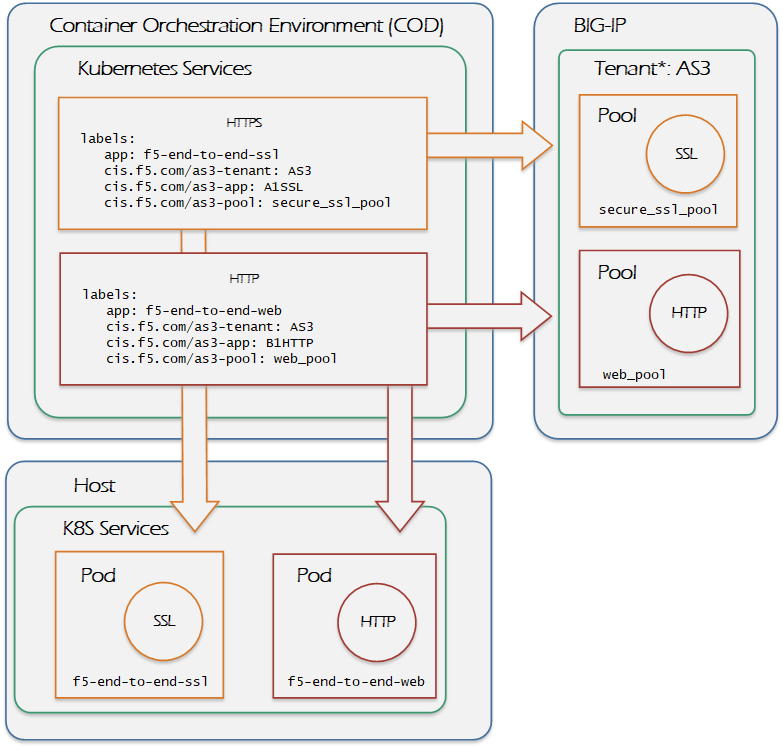
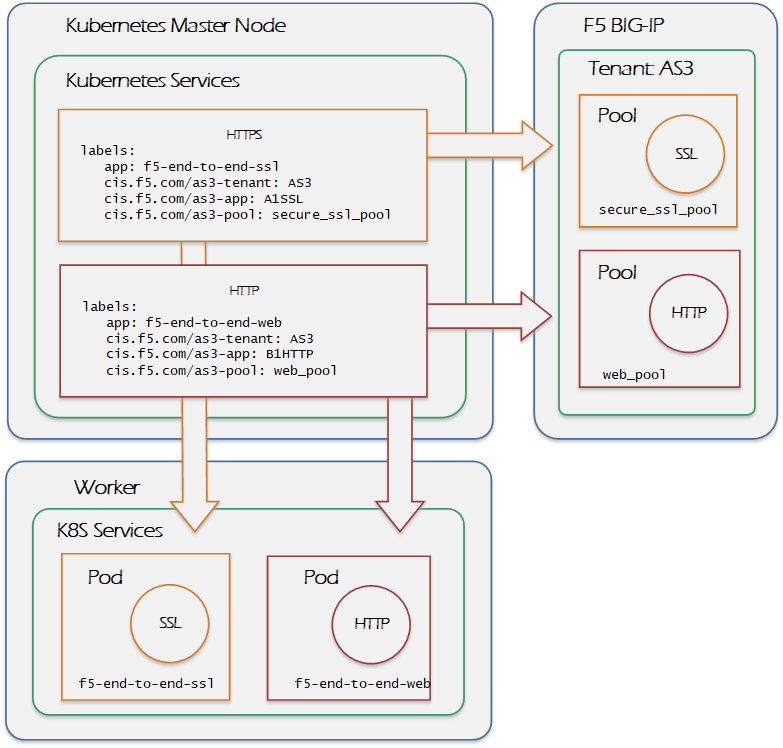
Add examples and dl

diff --git a/docs/kubernetes/kctlr-k8s-as3-use-1.rst b/docs/kubernetes/kctlr-k8s-as3-use-1.rst
@@ -5,10 +5,11 @@
 Container Ingress Services and AS3 Extensions - Use case 1
 ==========================================================
 
-This use case demonstrates how Container Ingress Services (CIS) uses Application Services 3 (AS3) Extenstion declarations to:
+This use case demonstrates how you can use Container Ingress Services (CIS) and Application Services 3 (AS3) Extenstion declarations to:
 
-- Expose an HTTP or HTTPs service within Kubernetes Pods.
-- Configure the BIG-IP system to load balance across the Pods.
+- Expose an HTTP or HTTPs Kubernetes Service with labels.
+- Use the labels for Service Discovery.
+- Configure the BIG-IP system to load balance across PODs.
 
 
 Prerequisites
@@ -22,55 +23,62 @@ To complete this use case, ensure you have:
 
 I. Deploy a labeled Kuberenetes Service
 ```````````````````````````````````````
-CIS can use service discovery to dynamically create load balancing pools on the BIG-IP system. CIS does this by mapping pool members to Kubernetes Pod labels. 
+CIS can use Service discovery to dynamically create load balancing pools on the BIG-IP system. CIS does this by mapping pool members to Kubernetes Pod labels. 
 
 The first step will be to deploy a labeled Kubernetes Service. Add these labels to your Kubernetes Service. 
 
-.. code-block:: YAML
-
-   labels:
-       app: <pod label>
-       cis.f5.com/as3-tenant: <tenant name>
-       cis.f5.com/as3-app: <application name>
-       cis.f5.com/as3-pool: <pool name>
-
 For example, the following labels identify the POD as f5-hello-world, the partition on BIG-IP as AS3, and the pool on BIG-IP as web_pool:
 
-.. parsed-literal::
+   .. code-block:: YAML
 
-   labels:
-        app: f5-hello-world
-        cis.f5.com/as3-tenant: AS3
-        cis.f5.com/as3-app: A1
-        cis.f5.com/as3-pool: web_pool
+      apiVersion: v1
+      kind: Service
+      metadata:
+        name: f5-hello-world-web
+        namespace: kube-system
+        labels:
+          app: f5-hello-world-web
+          cis.f5.com/as3-tenant: AS3
+          cis.f5.com/as3-app: A1
+          cis.f5.com/as3-pool: web_pool
+      spec:
+        ports:
+        - name: f5-hello-world-web
+          port: 8080
+          protocol: TCP
+          targetPort: 8080
+        type: NodePort
+        selector:
+          app: f5-hello-world-web
+
+- :fonticon:`fa fa-download` :download:`f5-hello-world-web-service.yaml </kubernetes/config_examples/f5-hello-world-web-service.yaml>`
 
 Deploy the Service using kubectl apply.
 
-.. parsed-literal::
+   .. parsed-literal::
 
-   kubectl apply -f <service name>.yaml -n <name space>
+      kubectl apply -f <service name>.yaml -n <name space>
 
    For example:
 
    .. parsed-literal::
 
-   kubectl apply -f f5-hello-world-service.yaml -n k8s
+      kubectl apply -f f5-hello-world-web-service.yaml -n k8s
 
-Example https://github.com/mdditt2000/kubernetes/blob/dev/cis-1-9/deployment/f5-hello-world-service.yaml
 
 II. Create a Deployment
 ```````````````````````
 Kubernetes Pod represent one or more containers that you create using a Kubernetes Deployment. To link specific Services with Deployments, ensure the same app labels are applied to each.
 
-.. parsed-literal::
+   .. parsed-literal::
 
-   kubectl apply -f <service name>.yaml -n <name space>
+      kubectl apply -f <service name>.yaml -n <name space>
 
    For example:
 
    .. parsed-literal::
 
-   kubectl apply -f f5-hello-world-service.yaml -n k8s
+      kubectl apply -f f5-hello-world-service.yaml -n k8s
 
 Example https://raw.githubusercontent.com/mdditt2000/kubernetes/dev/cis-1-9/deployment/f5-hello-world-deployment.yaml
 
@@ -82,15 +90,15 @@ This example will deploy a simple http application on BIG-IP
 
 Example https://github.com/mdditt2000/kubernetes/blob/dev/cis-1-9/A1/f5-as3-configmap.yaml
 
-.. parsed-literal::
+   .. parsed-literal::
 
-   kubectl create -f <configMap name>.yaml -n <name space>
+      kubectl create -f <configMap name>.yaml -n <name space>
 
    For example:
 
    .. parsed-literal::
 
-   kubectl create -f f5-as3-configmap.yaml -n k8s
+      kubectl create -f f5-as3-configmap.yaml -n k8s
 
 AS3 Examples
 ````````````

diff --git a/docs/kubernetes/kctlr-as3-cert-trust.rst b/docs/kubernetes/kctlr-as3-cert-trust.rst
@@ -25,14 +25,14 @@ Add a certificate to the CIS trusted SSL certificate store
 
 You can add either a BIG-IP device certificate, or the CA signing certificate to the trusted SSL certificate store. 
 
-In this procedure, you will Secure copy (SCP) a BIG-IP system device certificate to your local Container Orchestration Environment (COE), add it to the CIS trusted SSL certificate store, and restart the CIS controller.
+In this procedure, you will Secure copy (SCP) a BIG-IP system device certificate to the Kubernetes master node, add it to the CIS trusted SSL certificate store, and restart the CIS controller.
 
 Prerequisites
 `````````````
 - The ability to Secure copy (SCP) files from the BIG-IP system.
-- Command line access to your container orchestration environment (COE).
+- Command line access to the Kubernetes master node.
 
-#. Log in to the command line of your container orchestration environment (COE).
+#. Log in to the command line of the master node.
 
 #. Secure copy (SCP) the BIG-IP device certificate to the local working directory. 
 
@@ -117,7 +117,7 @@ Prerequisites
 `````````````
 - A Linux based workstation with the OpenSSL package installed.
 - The ability to Secure copy (SCP) files to and from the BIG-IP system.
-- Command line access to your container orchestration environment (COE).
+- Command line access to Kubernetes master node.
 
 .. important::
 
@@ -127,7 +127,7 @@ Create a root CA and sign a new BIG-IP device certificate
 `````````````````````````````````````````````````````````
 In this procedure, you will use OpenSSL to create a new Root CA signing certificate, and sign a new BIG-IP device certificate.
 
-#. Log in to the workstation command line.
+#. Log in to the Linux workstation command line.
 
 #. Create a working directory to store the CA root certificate and key.
 
@@ -344,7 +344,7 @@ In this procedure, you will back up and replace the BIG-IP system's self-signed 
 
    If the BIG-IP system has the DNS module license, connectivity to peer BIG-IP DNS systems will fail. You must exchange the new certificate with the BIG-IP DNS peers. For more inforation, refer to the **Sync group peer** section of `K16951115 Changing the BIG-IP DNS system device certificate using the Configuration utility`_.
 
-#. From the workstation, change into the root CA working directory.
+#. From the Linux workstation, change into the root CA working directory.
 
    .. parsed-literal::
 
@@ -458,7 +458,7 @@ In this procedure, you will back up and replace the BIG-IP system's self-signed 
 Add the CA signing certificate to the CIS trusted SSL certificate store
 ```````````````````````````````````````````````````````````````````````
 
-In this procedure, you will Secure copy (SCP) the CA signing certificate to your local COE, add it to the CIS trusted SSL certificate store, and restart the CIS controller.
+In this procedure, you will Secure copy (SCP) the CA signing certificate to the master node, add it to the CIS trusted SSL certificate store, and restart the CIS controller.
 
 #. Log in to the command line of your container orchestration environment (COE).
 

diff --git a/docs/kubernetes/kctlr-as3-delete-configmap.rst b/docs/kubernetes/kctlr-as3-delete-configmap.rst
@@ -12,7 +12,7 @@ You can use this procedure to delete CIS AS3 configmaps, and also remove the ass
 
    This procedure requires you to restart the :code:`k8s-bigip-ctlr`, and may briefly impact traffic processing.
 
-#. Log in to the command line of your container orchestration environment (COE).
+#. Log in to the command line of Kubernetes master node.
 
 #. To remove the associated configuration objects from the BIG-IP system, you must first create a blank configmap.
 
